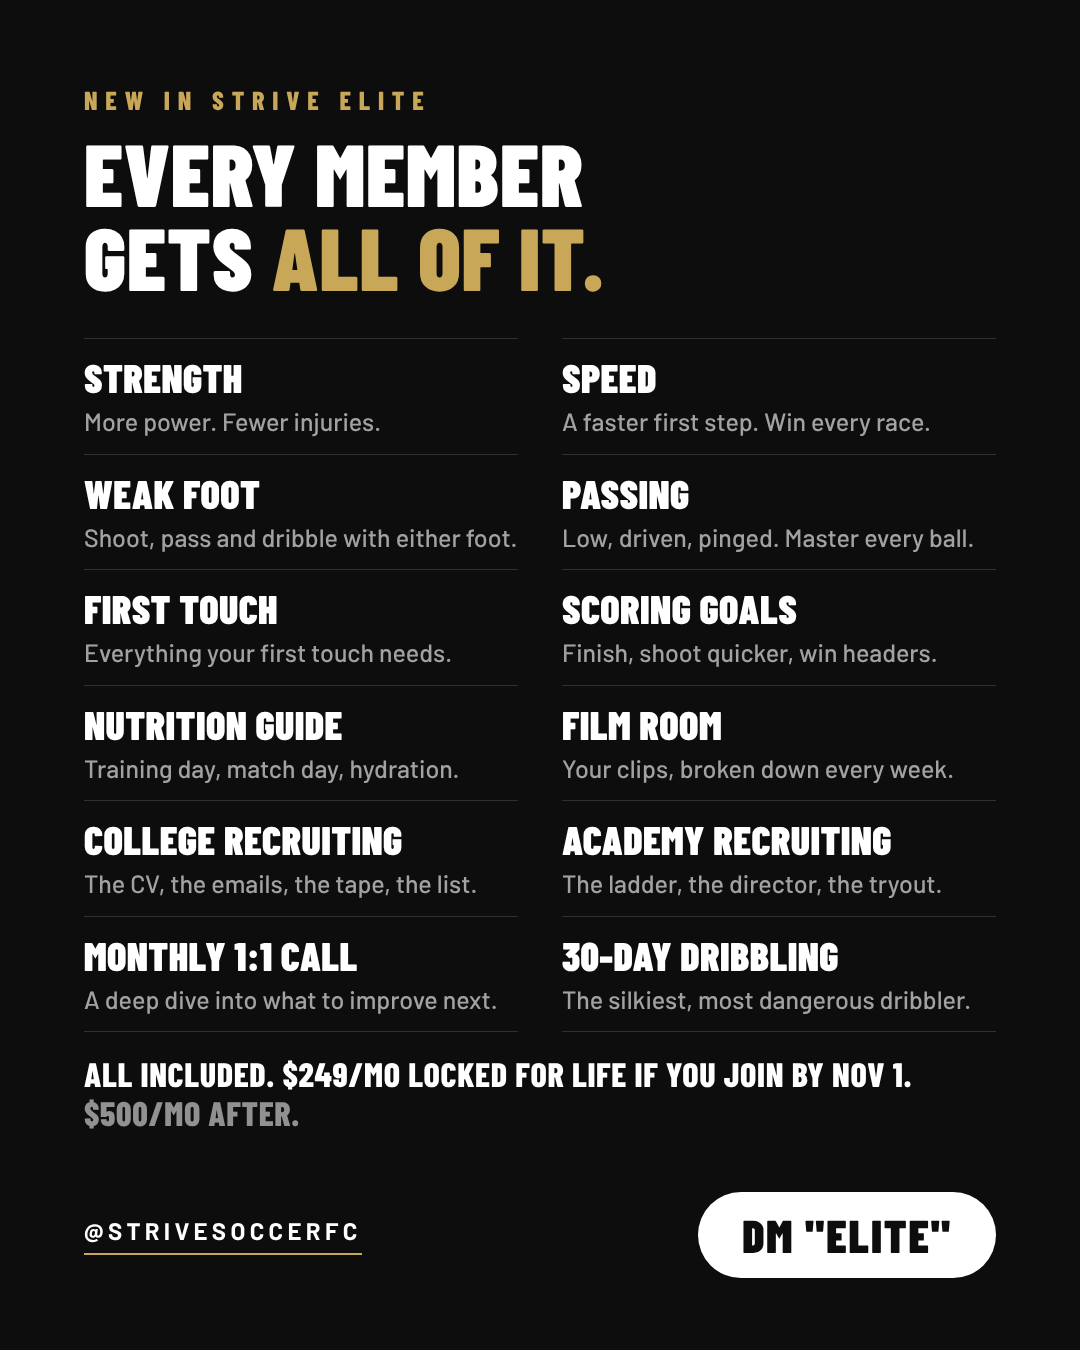
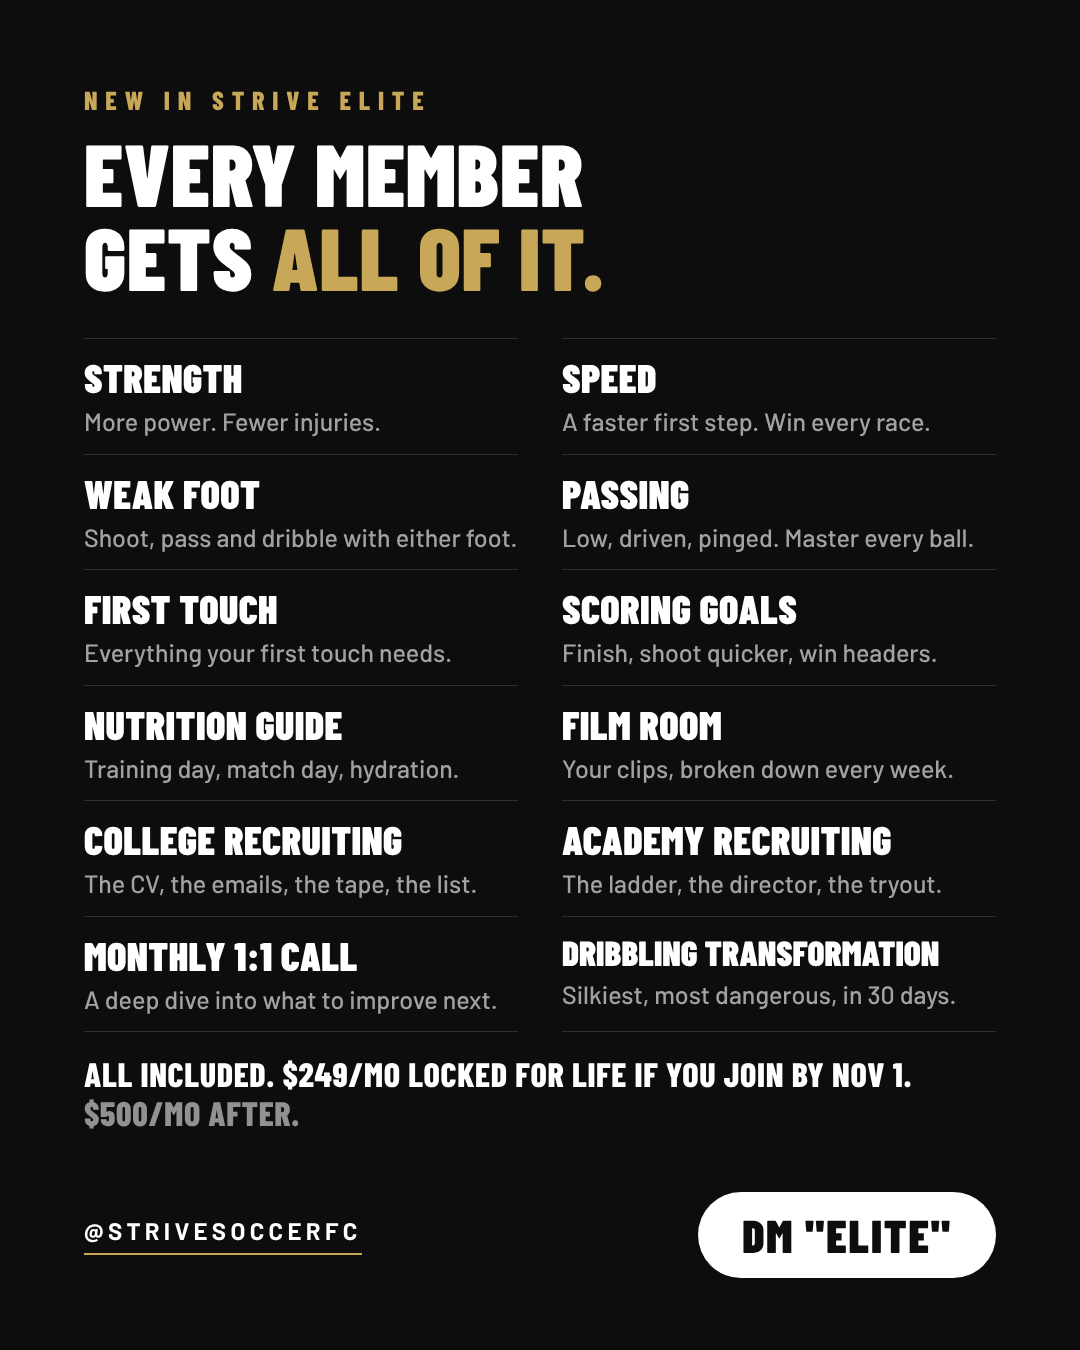
Offer post: Dribbling Transformation name
Claude-Session: https://claude.ai/code/session_011JsCTTjCbUkHbTuWTKQSXJ

Changed region(s): [[0.5194, 0.6844, 0.8861, 0.7467]]

diff --git a/marketing/announcement/offer-post/post.html b/marketing/announcement/offer-post/post.html
@@ -39,7 +39,7 @@ h1{font-family:'Barlow Condensed';font-weight:900;font-size:88px;line-height:.95
   <div class="item"><b>College Recruiting</b><p>The CV, the emails, the tape, the list.</p></div>
   <div class="item"><b>Academy Recruiting</b><p>The ladder, the director, the tryout.</p></div>
   <div class="item last"><b>Monthly 1:1 Call</b><p>A deep dive into what to improve next.</p></div>
-  <div class="item last"><b>30-Day Dribbling</b><p>The silkiest, most dangerous dribbler.</p></div>
+  <div class="item last"><b style="font-size:35px;letter-spacing:0">Dribbling Transformation</b><p>Silkiest, most dangerous, in 30 days.</p></div>
 </div>
 
 <p class="all">All included. $249/mo locked for life if you join by Nov 1. <span>$500/mo after.</span></p>

diff --git a/marketing/announcement/strive-elite-offer-post.md b/marketing/announcement/strive-elite-offer-post.md
@@ -48,7 +48,7 @@ Send your player's game clips. Coach Gary and I break them down and give the dri
 MONTHLY 1:1 CALL
 A deep dive into what to improve next and exactly how to work on it.
 
-30-DAY DRIBBLING TRANSFORMATION
+DRIBBLING TRANSFORMATION
 Thirty days of work to become the silkiest, most dangerous dribbler on the team.
 
 All included. $249 a month, locked for life, if you join by November 1. $500 after.
@@ -72,13 +72,13 @@ College Recruiting. The CV, the emails, the tape, the list.
 Academy Recruiting. The ladder, the director, the tryout.
 Film Room. Your clips, broken down every week.
 Monthly 1:1 call. A deep dive into what to improve next.
-30-Day Dribbling. The silkiest, most dangerous dribbler on the team.
+Dribbling Transformation. The silkiest, most dangerous dribbler on the team.
 
 $249 a month locked for life if you join by Nov 1. DM ELITE.
 ```
 
 Flags: the General Nutrition Guide is live (Nov 1). SCORING GOALS (first called Finishing in the
-Box), PASSING and the 30-DAY DRIBBLING TRANSFORMATION were added Nov 4 on Coach Yinka's "cap about it for now": the course
+Box), PASSING and the DRIBBLING TRANSFORMATION were added Nov 4 on Coach Yinka's "cap about it for now": the course
 is NOT in the app, no shooting clip has been sent, and the block carries
 no drill count on purpose; it becomes true the day the clips are banked
 and the course is switched on. The Nov 1 date needs his call if the

diff --git a/CLAUDE.md b/CLAUDE.md
@@ -3097,6 +3097,11 @@ commit.
       wrapped to two lines; the caption keeps the full name 30-DAY
       DRIBBLING TRANSFORMATION. Spacing restored to the original
       rhythm. Sent.
+      THEN (Coach Yinka: "Just name it dribbling transformation"):
+      the block is DRIBBLING TRANSFORMATION on the image and in the
+      caption (name set at 35 px in that one block so it holds one
+      line; every other name stays 40 px), line "Silkiest, most
+      dangerous, in 30 days." Sent.
 
 ## Growth target (stamped Sept 19, Coach Yinka's own call)
 
